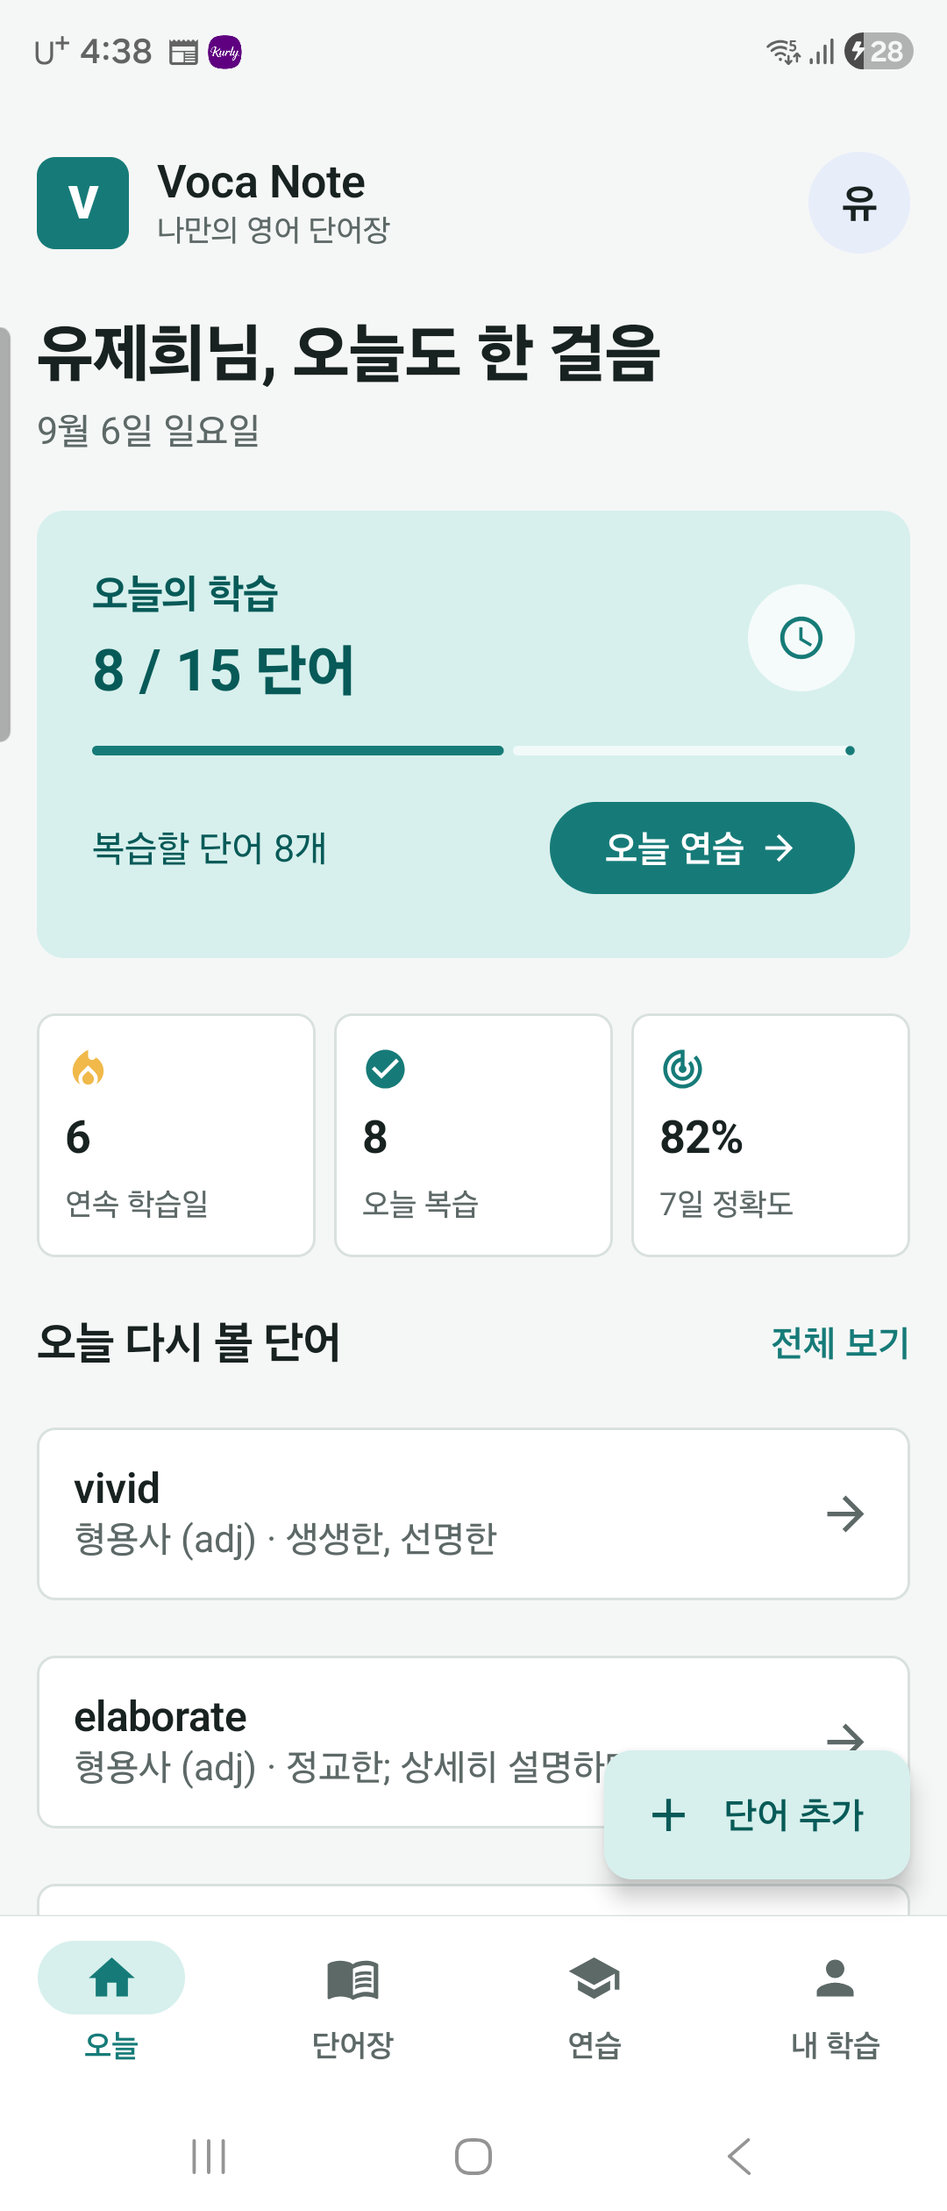
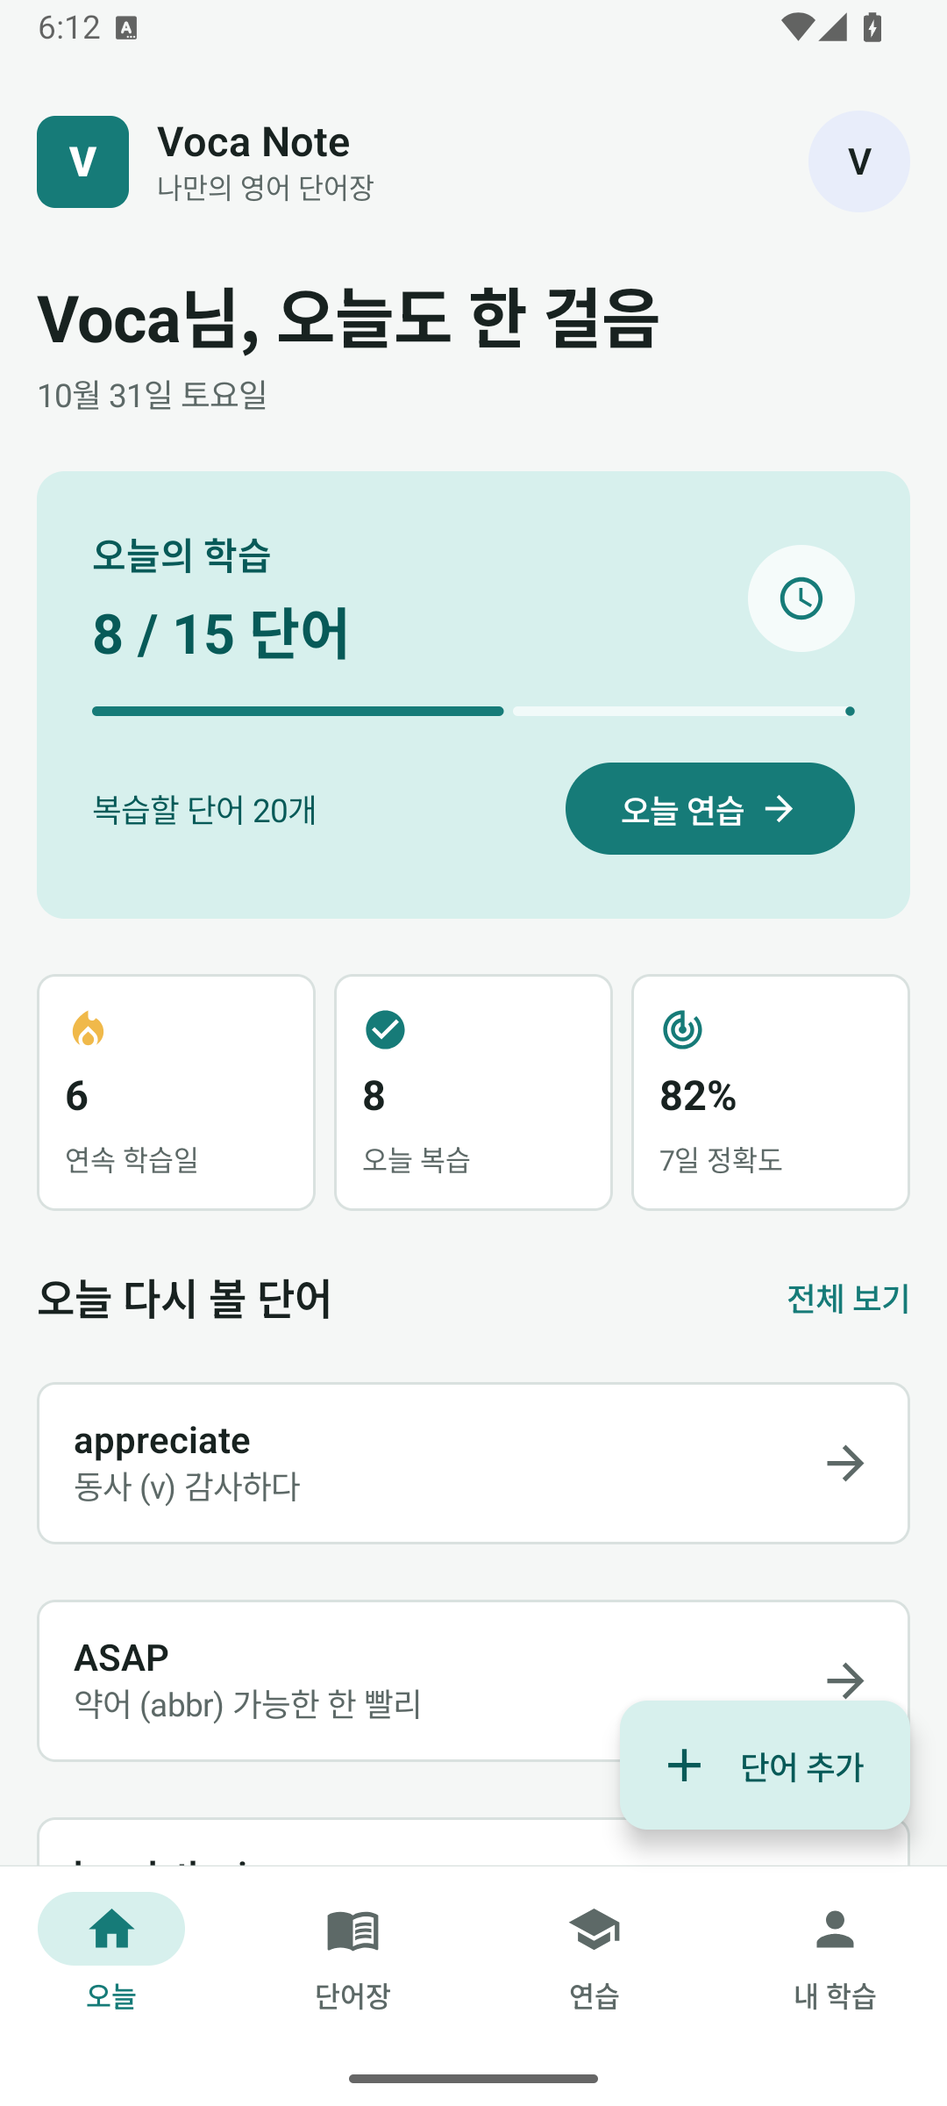
docs: refresh Android guide and sample screenshots

diff --git a/scripts/capture-screenshots.py b/scripts/capture-screenshots.py
@@ -1,0 +1,76 @@
+"""Capture the debug UI catalog, never the signed-in activity.
+
+Usage: python3 scripts/capture-screenshots.py --serial <adb-device-id>
+Keep the device unlocked. Only task-created screenshot/XML files are written.
+"""
+import argparse
+import pathlib
+import re
+import subprocess
+import time
+import xml.etree.ElementTree as ET
+
+parser = argparse.ArgumentParser()
+parser.add_argument('--serial', required=True)
+parser.add_argument('--screens', nargs='+', default=['home', 'library', 'settings', 'editor', 'review', 'part-of-speech', 'worksheet', 'worksheet-results'])
+args = parser.parse_args()
+root = pathlib.Path(__file__).resolve().parents[1]
+output = root / 'docs/screenshots'
+output.mkdir(parents=True, exist_ok=True)
+
+
+def adb(*arguments, binary=False):
+    for attempt in range(3):
+        try:
+            return subprocess.check_output(['adb', '-s', args.serial, *arguments], text=not binary, timeout=30)
+        except (subprocess.CalledProcessError, subprocess.TimeoutExpired):
+            if attempt == 2:
+                raise
+            time.sleep(1)
+
+
+def nodes():
+    adb('shell', 'uiautomator', 'dump', '/sdcard/voca-note-catalog.xml')
+    return list(ET.fromstring(adb('shell', 'cat', '/sdcard/voca-note-catalog.xml')).iter('node'))
+
+
+def tap(text):
+    matches = [n for n in nodes() if n.get('text') == text or n.get('content-desc') == text]
+    if not matches:
+        raise RuntimeError(f'Catalog control not visible: {text}')
+    x1, y1, x2, y2 = map(int, re.findall(r'\d+', matches[0].get('bounds')))
+    adb('shell', 'input', 'tap', str((x1+x2)//2), str((y1+y2)//2))
+    time.sleep(0.4)
+
+
+def launch(screen):
+    # Reset the debug-only catalog between screenshots; user account data is untouched.
+    adb('shell', 'am', 'force-stop', 'com.example.vocanote')
+    adb('shell', 'am', 'start', '-W', '-n', 'com.example.vocanote/.debug.UiCatalogActivity', '--es', 'screen', screen)
+    time.sleep(0.8)
+
+
+def capture(name):
+    if not any(n.get('package') == 'com.example.vocanote' for n in nodes()):
+        raise RuntimeError('Unlock the device and show the catalog before capturing.')
+    # Write the PNG on-device to avoid screencap display warnings in stdout.
+    adb('shell', 'screencap', '-p', '/sdcard/voca-note-catalog.png')
+    adb('pull', '/sdcard/voca-note-catalog.png', str(output / f'{name}.png'))
+    print(f'Captured {name}')
+
+
+for screen in args.screens:
+    launch('editor' if screen == 'part-of-speech' else screen)
+    if screen == 'part-of-speech':
+        tap('명사 (n)')
+        # Reveal the newly added expression types in the scrollable menu.
+        for _ in range(4):
+            current = nodes()
+            if any(n.get('text') == '약어 (abbr)' for n in current):
+                break
+            scroll = [n for n in current if n.get('scrollable') == 'true'][-1]
+            x1, y1, x2, y2 = map(int, re.findall(r'\d+', scroll.get('bounds')))
+            adb('shell', 'input', 'swipe', str((x1+x2)//2), str(y2-80), str((x1+x2)//2), str(y1+80), '400')
+    capture(screen)
+
+adb('shell', 'rm', '-f', '/sdcard/voca-note-catalog.xml', '/sdcard/voca-note-catalog.png')

diff --git a/README.md b/README.md
@@ -1,122 +1,85 @@
 <div align="center">
-  <h1>Voca Note</h1>
-  <p><strong>직접 모은 영어 단어를 능동 회상과 간격 반복으로 오래 기억하는 Android 앱</strong></p>
+  <h1>Voca Note · Android</h1>
+  <p><strong>직접 모은 단어를 웹과 함께 기록하고, 쓰고, 듣고, 다시 기억하는 영어 학습 앱</strong></p>
   <p>
-    <img alt="Kotlin" src="https://img.shields.io/badge/Kotlin-2.2.10-7F52FF?logo=kotlin&logoColor=white">
-    <img alt="Jetpack Compose" src="https://img.shields.io/badge/Jetpack_Compose-Material_3-4285F4?logo=jetpackcompose&logoColor=white">
-    <img alt="Firebase" src="https://img.shields.io/badge/Firebase-Auth_%7C_Firestore-FFCA28?logo=firebase&logoColor=black">
-    <img alt="Android" src="https://img.shields.io/badge/Android-API_24%2B-3DDC84?logo=android&logoColor=white">
+    <a href="https://voca-note.web.app">웹에서 시작하기</a> ·
+    <a href="https://github.com/JeHeeYu/Voca-Note-Web">웹 저장소</a> ·
+    <a href="CHANGELOG.md">변경 기록</a>
   </p>
+  <p>Kotlin · Jetpack Compose · Material 3 · Firebase Auth / Firestore · Android 7.0+</p>
 </div>
 
-Voca Note는 단어를 저장하는 데서 끝나지 않습니다. 답을 보기 전에 먼저 떠올리고, 쓰고, 듣고, 틀린 단어를 다시 풀게 하며 학습 결과에 따라 다음 복습 시각을 자동으로 조정합니다. 모든 단어와 학습 기록은 사용자별 Firebase 공간에 실시간 동기화됩니다.
+앱과 웹에서 같은 Google 계정으로 로그인하면 단어, 뜻별 품사, 학습 설정과 복습 기록을 이어서 사용할 수 있습니다. **현재 버전은 1.1.0**입니다.
 
-## Screens
+## 화면
+
+아래 이미지는 실제 Android 앱의 **샘플 데이터 화면**입니다. 로그인이나 개인 단어장 데이터를 사용하지 않습니다.
 
 <table>
   <tr>
-    <td width="50%" align="center">
-      <img src="docs/screenshots/home.png" alt="오늘 화면" width="340"><br>
-      <strong>오늘</strong><br>
-      목표 진행률, 연속 학습일, 7일 정확도와 복습 대상을 한곳에서 확인합니다.
-    </td>
-    <td width="50%" align="center">
-      <img src="docs/screenshots/library.png" alt="단어장 화면" width="340"><br>
-      <strong>단어장</strong><br>
-      단어·뜻·품사·예문 검색, 오늘 복습과 오답 필터, 학습 우선순 정렬을 지원합니다.
-    </td>
+    <td align="center" width="50%"><img src="docs/screenshots/home.png" width="300" alt="오늘의 목표와 학습 통계"><br><strong>오늘의 학습</strong><br>목표, 연속 학습일, 복습할 단어</td>
+    <td align="center" width="50%"><img src="docs/screenshots/library.png" width="300" alt="여러 뜻을 보여 주는 단어장"><br><strong>단어장</strong><br>모든 뜻·품사·연관어 검색과 정렬</td>
   </tr>
   <tr>
-    <td width="50%" align="center">
-      <img src="docs/screenshots/review.png" alt="연습 화면" width="340"><br>
-      <strong>연습</strong><br>
-      기억 카드, 뜻 고르기, 직접 쓰기, 듣고 쓰기 중 원하는 훈련을 선택합니다.
-    </td>
-    <td width="50%" align="center">
-      <img src="docs/screenshots/settings.png" alt="내 학습 화면" width="340"><br>
-      <strong>내 학습</strong><br>
-      하루 목표와 세션 분량을 정하고 Firebase 계정 정보를 관리합니다.
-    </td>
+    <td align="center"><img src="docs/screenshots/editor.png" width="300" alt="record의 명사와 동사 뜻을 나눠 편집"><br><strong>뜻별 편집</strong><br>뜻 추가·삭제, 뜻마다 품사 지정</td>
+    <td align="center"><img src="docs/screenshots/part-of-speech.png" width="300" alt="구와 구동사 등을 포함한 품사 메뉴"><br><strong>품사와 표현</strong><br>8품사 + 구·구동사·관용구·약어</td>
   </tr>
   <tr>
-    <td width="50%" align="center">
-      <img src="docs/screenshots/editor.png" alt="단어 상세 편집 화면" width="340"><br>
-      <strong>단어 상세</strong><br>
-      고정 저장 버튼으로 어느 위치에서든 저장하고 새 단어를 연속으로 추가합니다.
-    </td>
-    <td width="50%" align="center">
-      <img src="docs/screenshots/part-of-speech.png" alt="8품사 선택 메뉴" width="340"><br>
-      <strong>8품사 선택</strong><br>
-      명사 (n)부터 감탄사 (interj)까지 드롭다운에서 선택해 단어와 함께 학습합니다.
-    </td>
+    <td align="center"><img src="docs/screenshots/review.png" width="300" alt="연습 방식과 범위 설정"><br><strong>연습 설정</strong><br>한 문제씩 또는 한 번에, 5~30문제 선택</td>
+    <td align="center"><img src="docs/screenshots/worksheet.png" width="300" alt="여러 문제를 동시에 푸는 일괄 학습"><br><strong>한 번에 풀기</strong><br>리스트·그리드로 답을 입력하고 일괄 채점</td>
   </tr>
   <tr>
-    <td colspan="2" align="center">
-      <img src="docs/screenshots/related-terms.png" alt="연관 어휘 분류 메뉴" width="340"><br>
-      <strong>연관 어휘</strong><br>
-      유의어·반의어·파생어·혼동어·숙어/연어를 전환하며 한 화면에 모아 기록합니다.
-    </td>
+    <td align="center"><img src="docs/screenshots/worksheet-results.png" width="300" alt="일괄 채점의 정답과 오답 비교"><br><strong>답안 비교</strong><br>모든 뜻 확인, 오답 재연습, 저장 재시도</td>
+    <td align="center"><img src="docs/screenshots/settings.png" width="300" alt="학습 목표와 기본 문제 수 설정"><br><strong>내 학습</strong><br>하루 목표와 기본 문제 수</td>
   </tr>
 </table>
 
-## Learning Flow
-
-1. 강의, 문서, 영상에서 만난 단어와 뜻을 기록합니다.
-2. 품사와 유의어·반의어·파생어·혼동어·숙어/연어를 묶어 단어의 쓰임을 확장합니다.
-3. 오늘 복습할 단어를 기억 카드, 선택형, 쓰기, 듣기로 꺼내 봅니다.
-4. 틀린 단어만 즉시 다시 연습합니다.
-5. 성공하면 `1일 → 3일 → 이전 간격의 2배`로 늘리고, 실패하면 10분 뒤 다시 보여 줍니다.
-6. 세션 결과, 다음 복습 시각, 연속 학습일과 정확도를 Firebase에 저장합니다.
-
-## Features
+## 기능
 
 | 영역 | 제공 기능 |
 | --- | --- |
-| 계정 | Credential Manager 기반 Google 로그인, Firebase Authentication |
-| 단어 | 연속 추가, 약어를 포함한 8품사 선택, 유의어·반의어·파생어·혼동어·숙어/연어, 예문, 메모, Android TTS 발음 |
-| 탐색 | 단어·뜻·품사·예문·연관어 통합 검색, 오늘 복습/오답 필터, 알파벳/최근/학습 우선순 정렬 |
-| 연습 | 품사를 함께 보여 주는 능동 회상 카드, 4지선다, 빈칸 예문 쓰기, 듣고 철자 쓰기 |
-| 반복 | 다음 복습 시각 계산, 오답 즉시 재연습, 최대 180일 간격 반복 |
-| 통계 | 오늘 학습량, 일일 목표, 연속 학습일, 최근 7일 정확도 |
-| 동기화 | 사용자별 단어·설정·세션을 Firestore snapshot listener로 실시간 반영 |
-| UI | Material 3 기반 단일 라이트 테마, 휴대폰·태블릿 최대 폭 대응 |
+| 단어 입력 | 저장 후 추가 화면 유지, 최대 10개 뜻, 뜻마다 품사 지정, 뜻 추가·삭제·쉼표 분리 |
+| 품사·표현 | 명사·대명사·동사·형용사·부사·전치사·접속사·감탄사, 구(phr)·구동사(phr v)·관용구·약어 |
+| 연관 정보 | 예문, 메모, 유의어·반의어·파생어·혼동어·숙어/연어, 기기 TTS |
+| 탐색 | 모든 뜻과 품사·예문·연관어 검색, 복습/오답 필터, 최근/알파벳/학습 우선순 정렬 |
+| 한 문제씩 | 기억 카드·뜻 고르기·직접 쓰기·듣고 쓰기, 정답 확인 후 Enter로 다음 문제 |
+| 한 번에 풀기 | 뜻 고르기·직접 쓰기·듣고 쓰기, 5~30문제, 리스트·그리드, 빈 답 검증, 일괄 채점 |
+| 출제 범위 | 전체는 등록일·정답률·복습일과 무관하게 동일 확률로 출제, 오늘 복습·오답 집중은 복습 우선순위 유지 |
+| 결과 | 전체 답안 다시 보기, 틀린 단어 재연습, 저장 실패 시 답안을 유지해 재시도 |
+| 간격 반복 | 정답 `1일 → 3일 → 이전 간격의 2배(최대 180일)`, 오답 `10분` |
+| 동기화 | 앱·웹 공통 Google 계정, 사용자별 Firestore 실시간 동기화, 중복 저장 방지 |
 
-## Architecture
+한 번의 연습에서는 같은 단어를 중복 출제하지 않습니다. 전체 범위는 매번 무작위로 뽑으므로 다른 연습에서 같은 단어를 다시 만날 수 있습니다. 풀이 중 실시간 데이터가 변경되어도 시작할 때 고른 문제와 입력한 답은 유지합니다.
 
-```mermaid
-flowchart LR
-    Screen[Compose Screen] --> VM[VocaNoteViewModel]
-    VM --> Contract[VocaRepository]
-    Contract --> Firestore[FirestoreVocaRepository]
-    Firestore <--> Firebase[(Firebase Auth + Firestore)]
-    VM --> State[StateFlow UI State]
-    State --> Screen
-```
+## 구조
 
 ```text
 app/src/main/java/com/example/vocanote
-├── auth/                 # Google Credential + Firebase Auth
+├── auth/                 # Credential Manager + Firebase Auth
 ├── core/
-│   ├── data/             # Repository 계약과 Firestore 구현
+│   ├── data/             # VocaRepository / FirestoreVocaRepository
 │   ├── designsystem/     # 공통 레이아웃과 UI 컴포넌트
-│   ├── model/            # 단어, 통계, 간격 반복 순수 로직
-│   └── speech/           # Android TTS 래퍼
+│   ├── model/            # 단어·뜻·품사, 통계, 간격 반복
+│   └── speech/           # Android TTS
 ├── features/
-│   ├── editor/           # 단어 CRUD와 입력 검증
-│   ├── home/             # 오늘의 목표와 복습 대상
-│   ├── library/          # 검색, 필터, 정렬
-│   ├── review/           # 문제 엔진과 연습 세션
-│   └── settings/         # 학습량과 계정 설정
-└── ui/                   # 전역 상태와 Navigation 조립
+│   ├── editor/           # 뜻별 입력, 검증, 연속 저장
+│   ├── home/             # 목표와 복습 대상
+│   ├── library/          # 검색·필터·정렬
+│   ├── review/           # 출제 엔진, 세션 ViewModel, 단일·일괄 풀이
+│   └── settings/         # 학습량과 계정
+└── ui/                   # 로그인·구독 상태, Navigation 조립
 ```
 
-화면은 Firebase SDK를 직접 참조하지 않습니다. `VocaNoteViewModel`이 로그인 세션과 구독을 소유하고, 플랫폼과 무관한 학습 규칙은 JVM 단위 테스트가 가능한 순수 함수로 분리되어 있습니다.
+화면은 Firebase SDK를 직접 호출하지 않습니다. 전역 `VocaNoteViewModel`이 계정과 데이터 구독을 관리하고, `ReviewSessionViewModel`이 풀이 중인 문제·답안·저장 상태를 보존합니다. 문제 생성·뜻 정규화·채점·간격 반복은 JVM 테스트로 확인합니다.
 
-## Firestore
+## 앱·웹 공통 데이터
+
+Firebase 프로젝트는 `voca-note-1068c`입니다.
 
 ```text
 users/{uid}/words/{wordId}
-  word, wordLowercase, meaning, partOfSpeech, example, note
+  word, wordLowercase, meanings[{meaning, partOfSpeech}]
+  meaning, partOfSpeech, example, note
   synonyms, antonyms, derivatives, confusableWords, collocations
   correctCount, incorrectCount, reviewStreak, reviewIntervalDays
   createdAt, updatedAt, lastReviewedAt, nextReviewAt
@@ -129,38 +92,51 @@ users/{uid}/reviewSessions/{sessionId}
   wordIds, incorrectWordIds, completedAt
 ```
 
-복습 결과와 세션 이력은 하나의 Firestore batch로 저장합니다. 저장소의 [`firestore.rules`](firestore.rules)는 로그인 사용자가 자신의 경로만 읽고 쓰도록 제한하고 문자열 길이, 설정 범위, 세션 크기와 학습 간격을 서버에서도 검증합니다.
+`meanings` 배열이 있으면 이를 기준으로 읽고 편집합니다. 기존 단일 `meaning` 문서는 하나의 뜻으로 읽으며 쉼표를 자동 분리하지 않습니다. 저장할 때 첫 뜻·품사를 기존 단일 필드에도 반영합니다. 뜻은 1~10개, 각각 최대 300자입니다. 품사 저장 값은 기존 8개와 `phrase`, `phrasal_verb`, `idiom`, `abbreviation`입니다.
 
-```bash
-firebase emulators:exec --only firestore --project demo-voca-note true
-firebase deploy --only firestore:rules
-```
+단어 통계와 학습 세션은 **하나의 Firestore transaction**으로 저장합니다. 같은 세션 ID로 재시도해도 중복 집계하지 않으며, 다른 기기에서 변경된 최신 학습 간격을 읽어 다음 복습일을 계산합니다. 풀이 중 단어가 삭제된 경우 세션을 일부만 저장하지 않습니다.
 
-## Run
+[`firestore.rules`](firestore.rules)는 웹 저장소와 같은 규칙입니다. 스키마를 바꾸면 두 저장소의 규칙을 함께 갱신하고 공용 프로젝트에 배포하세요. 현재 버전의 여러 뜻 기능은 이미 배포된 규칙을 사용합니다.
 
-1. Android Studio에서 프로젝트를 열고 JDK 17 이상을 선택합니다.
-2. Firebase Android 앱의 `google-services.json`을 `app/`에 둡니다.
-3. Firebase Authentication에서 Google 로그인을 활성화하고 SHA-1/SHA-256을 등록합니다.
-4. API 24 이상 기기에서 앱을 실행합니다.
+## 실행
 
-```bash
+1. Android Studio와 **JDK 21**, Android SDK 36.1을 준비합니다. Gradle wrapper는 9.3.1입니다.
+2. 기존 Firebase Android 앱 설정을 `app/google-services.json`에 둡니다. 이 파일은 커밋하지 않습니다.
+3. Google 로그인을 활성화하고 개발용 서명 인증서의 SHA-1/SHA-256을 Firebase에 등록합니다.
+4. Android API 24 이상 기기에서 실행합니다.
+
+```sh
 ./gradlew assembleDebug
 adb install -r app/build/outputs/apk/debug/app-debug.apk
 ```
 
-로그인이나 서버 데이터 없이 화면만 확인할 때는 debug 전용 UI 카탈로그를 사용할 수 있습니다.
+`-r`로 업데이트하면 동일한 서명의 기존 앱 데이터를 유지합니다. 설치된 앱과 서명이 다르면 앱을 삭제하기 전에 서명 설정부터 확인하세요. Release APK는 별도 배포 서명이 필요합니다.
 
-```bash
-adb shell am start -n com.example.vocanote/.debug.UiCatalogActivity --es screen home
-# screen: home, library, review, settings, editor, new-editor
+무선 디버깅은 휴대폰에 표시되는 현재 주소·포트와 코드를 사용합니다. 페어링 포트와 연결 포트는 서로 다릅니다.
+
+```sh
+adb pair <페어링-IP:포트>       # 화면에 표시되는 일회용 코드 입력
+adb connect <연결-IP:포트>
+adb devices -l
 ```
 
-## Verification
+## 검증과 화면 촬영
 
-```bash
-./gradlew testDebugUnitTest
-./gradlew lintDebug
-./gradlew assembleDebug assembleRelease
+```sh
+./gradlew testDebugUnitTest lintDebug assembleDebug assembleRelease
+./gradlew assembleDebugAndroidTest
+adb install -r app/build/outputs/apk/androidTest/debug/app-debug-androidTest.apk
+adb shell am instrument -w com.example.vocanote.test/androidx.test.runner.AndroidJUnitRunner
 ```
 
-단위 테스트는 입력 검증, 네 가지 문제 생성, 정답 비교, 오답 기준, 간격 반복 경계, 학습 통계와 설정 범위를 다룹니다. Release 빌드는 R8 코드 축소와 리소스 최적화를 적용합니다.
+기기 UI 테스트는 로그인 없이 테스트용 데이터로 여러 뜻 입력, 연속 추가, Enter 진행, 20문제 일괄 채점, 레이아웃 전환, 저장 실패 재시도를 확인합니다. 테스트할 기기는 잠금을 풀어 두어야 합니다.
+
+Debug 전용 UI 카탈로그는 개인 계정과 연결되지 않습니다. Release 빌드에는 포함되지 않습니다.
+
+```sh
+adb shell am start -n com.example.vocanote/.debug.UiCatalogActivity --es screen editor
+# screen: home, library, review, settings, editor, new-editor, worksheet, worksheet-results
+python3 scripts/capture-screenshots.py --serial <adb-device-id>
+```
+
+스크린샷에는 카탈로그의 샘플 데이터만 사용합니다. 실제 Google 로그인과 TTS 음성 출력은 기기 및 계정 설정에 따라 별도로 확인합니다.

diff --git a/CHANGELOG.md b/CHANGELOG.md
@@ -1,0 +1,13 @@
+# 변경 기록
+
+## 1.1.0 · 2026-10-31
+
+- 앱·웹이 같은 `meanings` 배열을 사용하도록 저장·읽기·편집·검색을 통일했습니다.
+- 뜻을 최대 10개까지 추가하고 각각 품사를 지정할 수 있습니다. 구·구동사·관용구·약어를 추가했습니다.
+- 기존 쉼표로 적은 뜻은 직접 분리할 수 있으며 새 단어 저장 후 입력 화면을 유지합니다.
+- 전체 범위에서 새 단어가 우선 출제되던 편향을 제거했습니다.
+- 5~30문제 설정과 리스트·그리드 일괄 풀이, 전체 채점, 답안 비교, 오답 재연습을 추가했습니다.
+- 정답 확인 후 Enter로 다음 문제를 진행합니다.
+- 세션 문제를 시작 시 고정하고, 저장 실패 시 답안을 유지하며 같은 세션 ID로 재시도합니다.
+- 복습 기록 저장을 최신 단어 상태를 읽는 transaction으로 변경해 중복 집계를 방지합니다.
+- 샘플 화면 이미지와 개발·검증·Firebase 문서를 갱신했습니다.
